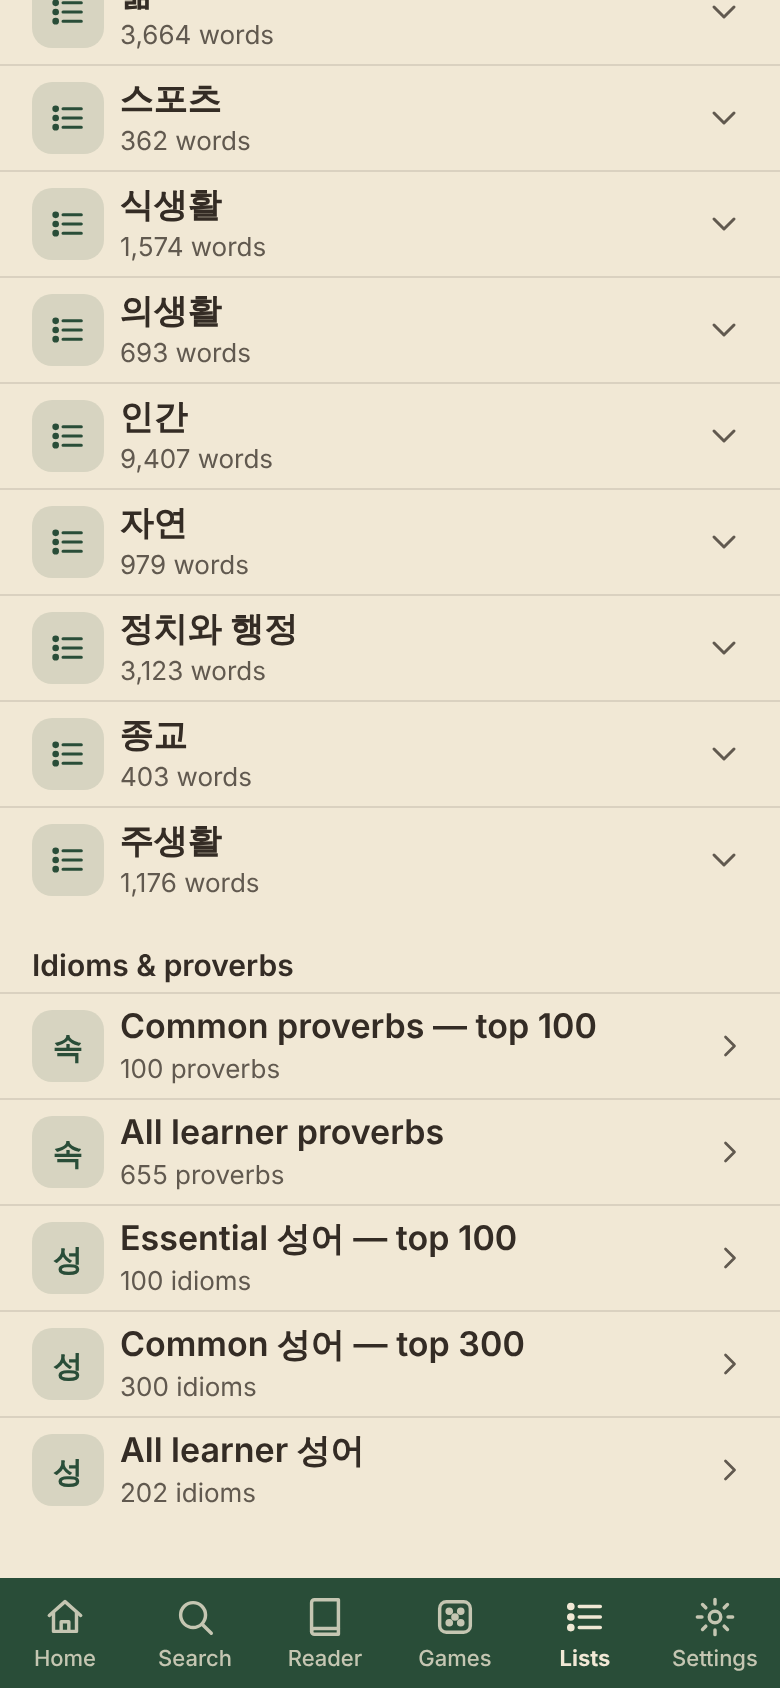
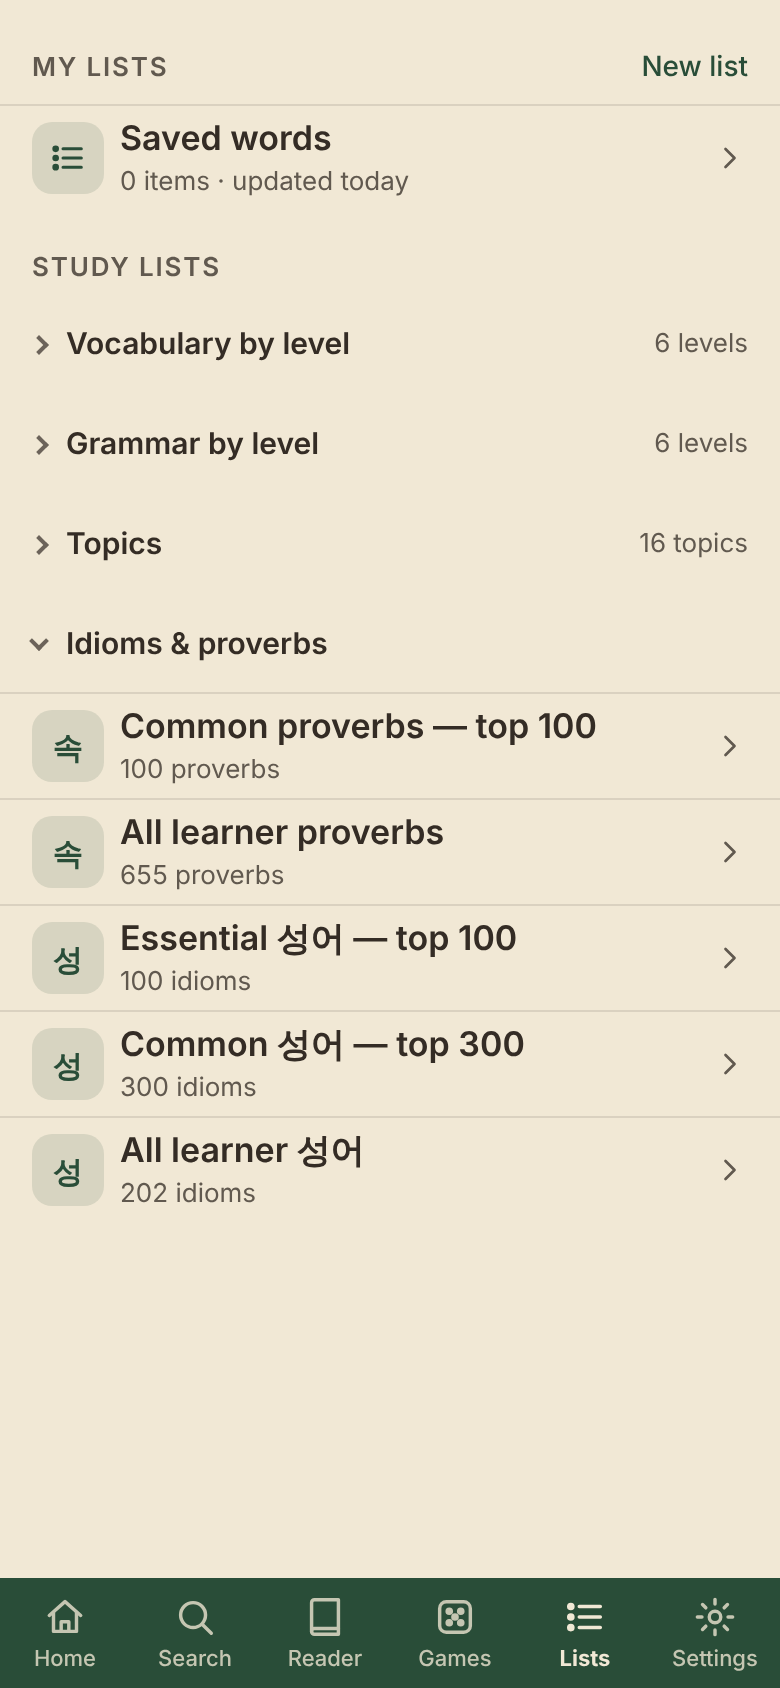
Lists: collapsible study-list groups; Settings: Appearance collapsible (open by default)
Claude-Session: https://claude.ai/code/session_01KdPaeje8PEPnx6eSEhkmxd

diff --git a/app/e2e/study-lists.spec.ts b/app/e2e/study-lists.spec.ts
@@ -18,6 +18,12 @@ const HAS_STUDY = (() => {
 const study = (page: Page) => page.locator('section[data-source=study]');
 const listLink = (page: Page, group: string, name: string) =>
   study(page).getByRole('group', { name: group }).locator('.list-row', { has: page.locator('.list-name', { hasText: new RegExp(`^${name}$`) }) }).first();
+const fold = (page: Page, group: string) => study(page).getByRole('button', { name: new RegExp(`^${group}`) });
+/** Expand a group of the overview (idempotent: the choice is remembered on the device). */
+async function expand(page: Page, group: string) {
+  if ((await fold(page, group).getAttribute('aria-expanded')) !== 'true') await fold(page, group).click();
+  await expect(fold(page, group)).toHaveAttribute('aria-expanded', 'true');
+}
 const rows = (page: Page) => page.locator('.vl-row:not(.vl-skel)');
 const rowAt = (page: Page, n: number) => page.locator(`.vl-row[aria-posinset="${n}"]`);
 const scroller = (page: Page) => page.locator('.vl-scroll');
@@ -57,6 +63,36 @@ test('study lists: levels, deep scroll, entry, save, grammar, topics (phone and 
   const sections = await page.locator('.lists > section h2').allTextContents();
   expect(sections).toEqual(['My lists', 'Study lists']);
   const vocab = study(page).getByRole('group', { name: 'Vocabulary by level' });
+  // collapsed by default, each heading summarising what is inside
+  const GROUPS = { 'Vocabulary by level': '6 levels', 'Grammar by level': '6 levels', 'Topics': /^\d+ topics$/ };
+  for (const [g, sum] of Object.entries(GROUPS)) {
+    await expect(fold(page, g)).toHaveAttribute('aria-expanded', 'false');
+    await expect(fold(page, g)).toHaveAttribute('aria-controls', /.+/);
+    await expect(fold(page, g).locator('.group-sum')).toHaveText(sum);
+    expect((await fold(page, g).boundingBox())!.height).toBeGreaterThanOrEqual(44);
+  }
+  await expect(study(page).locator('.list-row:visible')).toHaveCount(0);
+  await page.waitForTimeout(300);
+  await shot(page, 'study-lists-overview-phone');
+  // keyboard: Enter on the focused heading toggles, the summary goes away when open
+  await fold(page, 'Vocabulary by level').focus();
+  await page.keyboard.press('Enter');
+  await expect(fold(page, 'Vocabulary by level')).toHaveAttribute('aria-expanded', 'true');
+  await expect(fold(page, 'Vocabulary by level').locator('.group-sum')).toHaveCount(0);
+  await page.keyboard.press('Enter');
+  await expect(fold(page, 'Vocabulary by level')).toHaveAttribute('aria-expanded', 'false');
+  // open state survives a reload; the others stay closed
+  await expand(page, 'Vocabulary by level');
+  await expand(page, 'Grammar by level');
+  await expand(page, 'Topics');
+  await page.reload();
+  await expect(study(page).getByRole('heading', { name: 'Study lists' })).toBeVisible();
+  for (const g of Object.keys(GROUPS)) await expect(fold(page, g)).toHaveAttribute('aria-expanded', 'true');
+  await fold(page, 'Grammar by level').click();
+  await page.reload();
+  await expect(fold(page, 'Grammar by level')).toHaveAttribute('aria-expanded', 'false');
+  await expect(fold(page, 'Vocabulary by level')).toHaveAttribute('aria-expanded', 'true');
+  await expand(page, 'Grammar by level');
   await expect(vocab.locator('.list-row')).toHaveCount(6);
   expect(await texts(vocab.locator('.list-name'))).toEqual([1, 2, 3, 4, 5, 6].map((n) => `${n}급 · 표준 교육과정`));
   const grammar = study(page).getByRole('group', { name: 'Grammar by level' });
@@ -69,7 +105,7 @@ test('study lists: levels, deep scroll, entry, save, grammar, topics (phone and 
   await expect(study(page).getByRole('group', { name: 'Topics' }).locator('.list-row').first()).toBeVisible();
   await expect(study(page).locator('.resume')).toHaveCount(0);   // nothing opened yet
   await page.waitForTimeout(300);
-  await shot(page, 'study-lists-overview-phone');
+  await shot(page, 'study-lists-expanded-phone');
 
   // ---- 6급 vocabulary: thousands of rows, only the visible ones in the page ----
   const t0 = Date.now();
@@ -145,7 +181,13 @@ test('study lists: levels, deep scroll, entry, save, grammar, topics (phone and 
   await expect(study(page).locator('.resume')).toContainText('Continue: 6급 · 표준 교육과정');
   await expect(study(page).locator('.resume')).toContainText('Vocabulary');
 
+  // the Continue row sits above the groups, outside any collapsed one
+  await fold(page, 'Vocabulary by level').click();
+  await expect(study(page).locator('.resume .list-row')).toBeVisible();
+  await expand(page, 'Vocabulary by level');
+
   // ---- grammar by level: the official forms, summaries; a tap opens the pattern's entry ----
+  await expand(page, 'Grammar by level');
   await listLink(page, 'Grammar by level', '1급 · 표준 교육과정').click();
   await expect(page.locator('.eyebrow')).toHaveText('Grammar');
   await expect(rows(page).first()).toBeVisible();
@@ -173,6 +215,7 @@ test('study lists: levels, deep scroll, entry, save, grammar, topics (phone and 
 
   // ---- topics: top level, then sub-categories; sorted by level then 가나다, or 가나다 only ----
   await overview(page);
+  await expand(page, 'Topics');
   const topics = study(page).getByRole('group', { name: 'Topics' });
   const top = topics.locator('.list-row-wrap').first();
   await expect(top.locator('.list-row')).toContainText(/\d/);
@@ -221,6 +264,8 @@ test('study lists on an iPad: the list on the left, the entry on the right', asy
   await expect(study(page).getByRole('heading', { name: 'Study lists' })).toBeVisible();
   await page.waitForTimeout(300);
   await shot(page, 'tablet-study-lists-overview');
+  await expand(page, 'Vocabulary by level');
+  await expand(page, 'Grammar by level');
   await listLink(page, 'Vocabulary by level', '5급 · 표준 교육과정').click();
   await expect(rows(page).first()).toBeVisible();
   await rowAt(page, 3).locator('a.row').click();
@@ -230,6 +275,7 @@ test('study lists on an iPad: the list on the left, the entry on the right', asy
   await page.waitForTimeout(500);
   await shot(page, 'tablet-study-lists-vocab');
   await page.getByRole('link', { name: 'All lists' }).click();
+  await expand(page, 'Grammar by level');
   await listLink(page, 'Grammar by level', '3급 · 표준 교육과정').click();
   await expect(rows(page).first()).toBeVisible();
   await page.waitForTimeout(300);

diff --git a/app/src/views/Lists.tsx b/app/src/views/Lists.tsx
@@ -1,3 +1,4 @@
+import type { ComponentChildren } from 'preact';
 import { useState } from 'preact/hooks';
 import { Empty, Hanja, IconButton, LevelBadge } from '../components/common';
 import { Icon } from '../components/Icons';
@@ -48,6 +49,11 @@ function SourceSection({ src }: { src: ListSource }) {
     const g = groups.find((x) => x.name === l.group);
     if (g) g.lists.push(l); else groups.push({ name: l.group, lists: [l] });
   }
+  const listItems = (ls: ListSummary[]) => ls.map((l) => (
+    <li key={l.id}>
+      <ListRow l={l} current={current(l.id)} subs={all.filter((s) => s.parent === l.id)} currentOf={current} />
+    </li>
+  ));
   const resume = src.lastOpened?.();
   const last = resume ? all.find((l) => l.id === resume) : undefined;
   return (
@@ -63,19 +69,37 @@ function SourceSection({ src }: { src: ListSource }) {
           <li><ListRow l={last} current={current(last.id)} lead="Continue" /></li>
         </ul>
       )}
-      {groups.map((g) => (
-        <div key={g.name ?? ''} class="list-group" role="group" aria-label={g.name}>
-          {g.name && <h3 class="group-head">{g.name}</h3>}
-          <ul class="plain list">
-            {g.lists.map((l) => (
-              <li key={l.id}>
-                <ListRow l={l} current={current(l.id)} subs={all.filter((s) => s.parent === l.id)} currentOf={current} />
-              </li>
-            ))}
-          </ul>
-        </div>
-      ))}
+      {groups.map((g) => (g.name
+        ? <FoldGroup key={g.name} id={`${src.id}:${g.name}`} name={g.name} lists={g.lists}>{listItems(g.lists)}</FoldGroup>
+        : <div key="" class="list-group"><ul class="plain list">{listItems(g.lists)}</ul></div>))}
     </section>
+  );
+}
+
+const OPEN_KEY = 'kd.lists.open';
+/** Groups left open on the overview, remembered on this device; all collapsed by default. */
+function loadOpen(): string[] { try { const v = JSON.parse(localStorage.getItem(OPEN_KEY) || '[]'); return Array.isArray(v) ? v.filter((x) => typeof x === 'string') : []; } catch { return []; /* storage unavailable or unparsable: all collapsed */ } }
+function saveOpen(v: string[]) { try { localStorage.setItem(OPEN_KEY, JSON.stringify(v)); } catch { /* storage unavailable: the choice lasts for this visit */ } }
+const unitOf = (name: string) => (/level/i.test(name) ? 'level' : /topic/i.test(name) ? 'topic' : 'list');
+
+/** A collapsible group of lists: the heading is the toggle; collapsed it summarises the count. Closed groups stay mounted (hidden). */
+function FoldGroup({ id, name, lists: ls, children }: { id: string; name: string; lists: ListSummary[]; children: ComponentChildren }) {
+  const [open, setOpen] = useState(() => loadOpen().includes(id));
+  const toggle = () => {
+    const next = !open;
+    setOpen(next);
+    const cur = loadOpen().filter((x) => x !== id);
+    saveOpen(next ? [...cur, id] : cur);
+  };
+  const body = `lg-${id.replace(/[^\w-]+/g, '-')}`;
+  return (
+    <div class="list-group" role="group" aria-label={name}>
+      <h3 class="group-head"><button type="button" class="group-fold" aria-expanded={open} aria-controls={body} onClick={toggle}>
+        <span class="rd-chev" aria-hidden="true" /><span class="group-title">{name}</span>
+        {!open && <span class="group-sum muted small">{plural(ls.length, unitOf(name))}</span>}
+      </button></h3>
+      <ul id={body} class="plain list" hidden={!open}>{children}</ul>
+    </div>
   );
 }
 

diff --git a/app/e2e/settings-groups.spec.ts b/app/e2e/settings-groups.spec.ts
@@ -1,19 +1,26 @@
 import { downloadAll, expect, test } from './fixtures';
 
-/** Settings sections are collapsible: all closed on a first visit, remembered, contents hidden when closed. */
+/** Settings sections are collapsible: only Appearance open on a first visit, remembered, contents hidden when closed. */
 test('settings: collapsible sections (phone + iPad)', async ({ page }) => {
   test.setTimeout(300_000);
   await page.setViewportSize({ width: 390, height: 844 });
   await page.goto('/');
   await downloadAll(page);
-  await page.evaluate(() => localStorage.setItem('kd.settings.open', '[]'));   // a first visit
+  await page.evaluate(() => localStorage.removeItem('kd.settings.open'));   // a first visit
   await page.goto('/#/settings');
   const heads = page.locator('.set-fold');
   await expect(heads).toHaveText(['Appearance', 'Dictionaries', 'Data', 'Backup', 'About & licences']);
-  for (const h of await heads.all()) await expect(h).toHaveAttribute('aria-expanded', 'false');
-  await expect(page.getByRole('radiogroup', { name: 'Theme' })).toBeHidden();
+  await expect(page.getByRole('button', { name: 'Appearance' })).toHaveAttribute('aria-expanded', 'true');   // open by default
+  await expect(page.getByRole('radiogroup', { name: 'Theme' })).toBeVisible();
+  for (const n of ['Dictionaries', 'Data', 'Backup', 'About & licences']) await expect(page.getByRole('button', { name: n })).toHaveAttribute('aria-expanded', 'false');
   await page.waitForTimeout(300);
   await page.screenshot({ path: '../docs/screenshots/settings-collapsed-phone.png' });
+  // collapse Appearance; it stays collapsed after a reload
+  await page.getByRole('button', { name: 'Appearance' }).click();
+  await expect(page.getByRole('radiogroup', { name: 'Theme' })).toBeHidden();
+  await page.reload();
+  await expect(page.getByRole('button', { name: 'Appearance' })).toHaveAttribute('aria-expanded', 'false');
+  await expect(page.getByRole('radiogroup', { name: 'Theme' })).toBeHidden();
 
   await page.getByRole('button', { name: 'Data' }).click();
   await expect(page.getByRole('button', { name: 'Data' })).toHaveAttribute('aria-expanded', 'true');

diff --git a/app/e2e/idioms-lists.spec.ts b/app/e2e/idioms-lists.spec.ts
@@ -27,9 +27,16 @@ const LISTS = [
   { name: 'All learner 성어', count: 202, tag: '성어', first: '만장일치' },
 ];
 
+const fold = (page: Page) => study(page).getByRole('button', { name: /^Idioms & proverbs/ });
+/** Expand the group (idempotent: the choice is remembered on the device). */
+async function expand(page: Page) {
+  if ((await fold(page).getAttribute('aria-expanded')) !== 'true') await fold(page).click();
+  await expect(fold(page)).toHaveAttribute('aria-expanded', 'true');
+}
 async function overview(page: Page) {
   await page.goto('/#/lists');
   await expect(study(page).getByRole('heading', { name: 'Study lists' })).toBeVisible();
+  await expand(page);
 }
 const link = (page: Page, name: string) => group(page).locator('.list-row', { has: page.locator('.list-name', { hasText: new RegExp(`^${name}$`) }) });
 
@@ -51,8 +58,15 @@ for (const vp of [{ n: 'phone', w: 390, h: 844 }, { n: 'ipad', w: 1180, h: 820 }
       return;
     }
 
-    // ---- overview: the group with its five lists and counts ----
+    // ---- overview: collapsed with a summary; expanding (remembered across a reload) shows five lists and counts ----
     await expect(group(page)).toBeVisible();
+    await expect(fold(page)).toHaveAttribute('aria-expanded', 'false');
+    await expect(fold(page).locator('.group-sum')).toHaveText('5 lists');
+    await expect(group(page).locator('.list-row:visible')).toHaveCount(0);
+    await expand(page);
+    await page.reload();
+    await expect(fold(page)).toHaveAttribute('aria-expanded', 'true');
+    await expect(group(page).locator('.list-row:visible')).toHaveCount(5);
     expect(await texts(group(page).locator('.list-name'))).toEqual(LISTS.map((l) => l.name));
     for (const l of LISTS) await expect(link(page, l.name)).toContainText(`${l.count} ${l.tag === '속담' ? 'proverbs' : 'idioms'}`);
     await group(page).scrollIntoViewIfNeeded();

diff --git a/app/src/styles.css b/app/src/styles.css
@@ -335,7 +335,14 @@ input[type=checkbox][role=switch]:checked::after { transform: translateX(18px); 
 .list-edit { display: flex; gap: 8px; padding: 2px 16px 10px; }
 .list-edit .btn { flex: 1; }
 /* built-in study lists */
-.group-head { margin: 0; font-size: 15px; font-weight: 600; color: var(--text); padding: 14px 16px 2px; }
+.group-head { margin: 0; font-size: 15px; font-weight: 600; color: var(--text); padding: 0 16px; }
+.group-fold { all: unset; box-sizing: border-box; width: 100%; display: flex; align-items: center; gap: 10px; min-height: 48px; padding: 8px 0; cursor: pointer; -webkit-tap-highlight-color: transparent; }
+.group-fold:focus-visible { outline: 2px solid var(--accent); outline-offset: 2px; border-radius: 6px; }
+.group-fold .rd-chev { transform: rotate(-45deg); }
+.group-fold[aria-expanded='true'] .rd-chev { transform: translateY(-2px) rotate(45deg); }
+.group-title { flex: 1; min-width: 0; }
+.group-sum { flex: none; font-weight: 400; }
+.list-group > ul[hidden] { display: none; }
 .list-group + .list-group { margin-top: 2px; }
 .resume { margin-top: 2px; }
 .list-badge { font: 700 15px/1 var(--font-ko); }

diff --git a/app/src/views/Settings.tsx b/app/src/views/Settings.tsx
@@ -202,8 +202,9 @@ function TechDetails() {
 }
 
 const OPEN_KEY = 'kd.settings.open';
-/** Sections left open, remembered; all closed on first visit. */
-function loadOpenGroups(): string[] { try { const v = JSON.parse(localStorage.getItem(OPEN_KEY) || '[]'); return Array.isArray(v) ? v.filter((x) => typeof x === 'string') : []; } catch { return []; /* storage unavailable or unparsable: all sections closed */ } }
+/** Sections left open, remembered; on a first visit only Appearance is open. */
+const DEFAULT_OPEN = ['appearance'];
+function loadOpenGroups(): string[] { try { const raw = localStorage.getItem(OPEN_KEY); if (raw == null) return DEFAULT_OPEN; const v = JSON.parse(raw); return Array.isArray(v) ? v.filter((x) => typeof x === 'string') : []; } catch { return DEFAULT_OPEN; /* storage unavailable or unparsable: the default sections */ } }
 function saveOpenGroups(v: string[]) { try { localStorage.setItem(OPEN_KEY, JSON.stringify(v)); } catch { /* storage unavailable */ } }
 
 /** A collapsible settings section. Closed sections stay mounted (hidden), so a download keeps running. */

diff --git a/app/e2e/grammar-lesson.spec.ts b/app/e2e/grammar-lesson.spec.ts
@@ -38,6 +38,8 @@ async function lessonShots(page: Page, name: string) {
 async function openGrammar6(page: Page) {
   await page.getByRole('link', { name: 'Lists', exact: true }).click();
   await expect(study(page).getByRole('heading', { name: 'Study lists' })).toBeVisible();
+  const fold = study(page).getByRole('button', { name: /^Grammar by level/ });
+  if ((await fold.getAttribute('aria-expanded')) !== 'true') await fold.click();
   await study(page).getByRole('group', { name: 'Grammar by level' })
     .locator('.list-row', { has: page.locator('.list-name', { hasText: /^6급 · 표준 교육과정$/ }) }).first().click();
   await expect(page.locator('.eyebrow')).toHaveText('Grammar');
